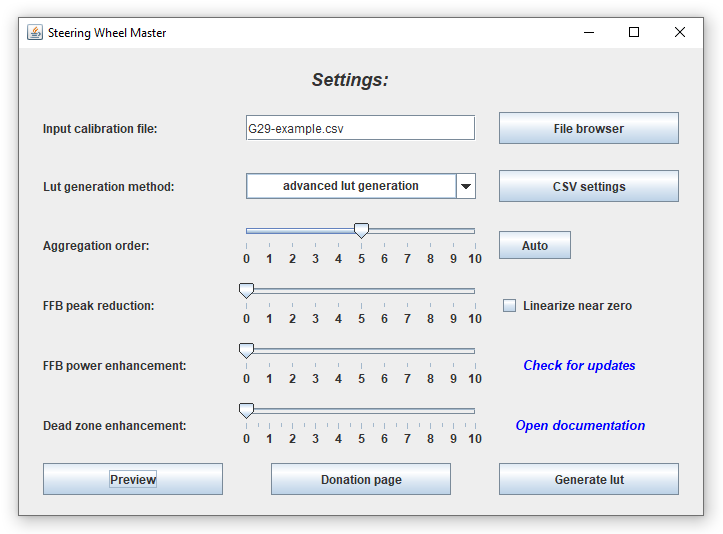
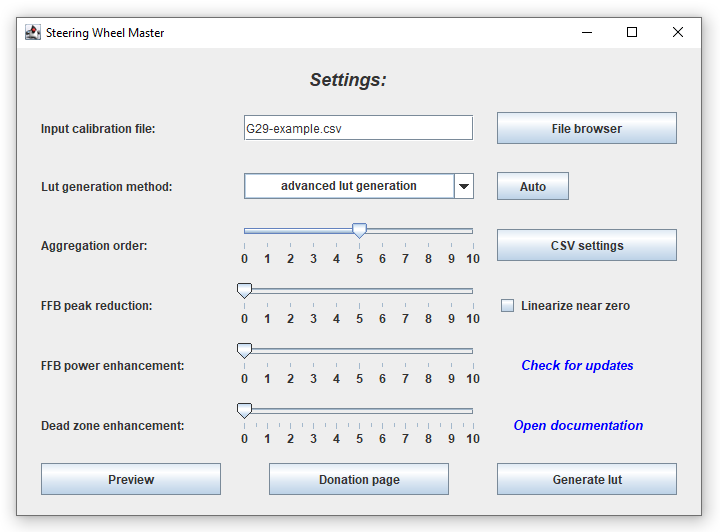
Improved 'Auto' feature and default settings. Java 8 is now required.

diff --git a/src/userInterface/Menu.java b/src/userInterface/Menu.java
@@ -45,7 +45,7 @@ public class Menu extends JPanel{
 	JTextField inputFileText;
 	JSlider aggregationSlider;
 	JSlider peakReductionSlider;
-	JSlider ffbPowerEnhacementSlider;
+	JSlider ffbPowerEnhancementSlider;
 	JSlider deadZoneEnhancementSlider;
 	JSONObject config;
 	JLabel documentationLink;
@@ -165,14 +165,14 @@ public class Menu extends JPanel{
 		
 		JLabel ffbPowerEnhacementLabel = new JLabel("FFB power enhancement:");
 		ffbPowerEnhacementLabel.setPreferredSize(sideComponentSize);
-		ffbPowerEnhacementSlider = new JSlider(0, 10, config.getInt(FFB_POWER_ENHANCEMENT));
-		ffbPowerEnhacementSlider.setPreferredSize(sliderSize);
-		ffbPowerEnhacementSlider.setMajorTickSpacing(5);
-		ffbPowerEnhacementSlider.setMinorTickSpacing(1);
-		ffbPowerEnhacementSlider.setPaintTicks(true);
-		ffbPowerEnhacementSlider.setPaintLabels(true);
-		ffbPowerEnhacementSlider.setPaintTrack(true);
-		ffbPowerEnhacementSlider.setLabelTable(position1);
+		ffbPowerEnhancementSlider = new JSlider(0, 10, config.getInt(FFB_POWER_ENHANCEMENT));
+		ffbPowerEnhancementSlider.setPreferredSize(sliderSize);
+		ffbPowerEnhancementSlider.setMajorTickSpacing(5);
+		ffbPowerEnhancementSlider.setMinorTickSpacing(1);
+		ffbPowerEnhancementSlider.setPaintTicks(true);
+		ffbPowerEnhancementSlider.setPaintLabels(true);
+		ffbPowerEnhancementSlider.setPaintTrack(true);
+		ffbPowerEnhancementSlider.setLabelTable(position1);
 		
 		JLabel deadZoneEnhancementLabel = new JLabel("Dead zone enhancement:");
 		deadZoneEnhancementLabel.setPreferredSize(sideComponentSize);
@@ -199,7 +199,7 @@ public class Menu extends JPanel{
 		aggregationSlider.setToolTipText(htmlBegin + AGGREGATION_ORDER_DESCRIPTION + htmlEnd);
 		autoButton.setToolTipText(htmlBegin + AUTO_DESCRIPTION + htmlEnd);
 		peakReductionSlider.setToolTipText(htmlBegin + PEAK_REDUCTION_DESCRIPTION + htmlEnd);
-		ffbPowerEnhacementSlider.setToolTipText(htmlBegin + POWER_ENHANCEMENT_DESCRIPTION + htmlEnd);
+		ffbPowerEnhancementSlider.setToolTipText(htmlBegin + POWER_ENHANCEMENT_DESCRIPTION + htmlEnd);
 		deadZoneEnhancementSlider.setToolTipText(htmlBegin + DZ_ENHANCEMENT_DESCRIPTION + htmlEnd);
 		linearizeNearZero.setToolTipText(htmlBegin + LINEARIZE_NEAR_ZERO_DESCRIPTION + htmlEnd);
 		lutGenerationMethod.setToolTipText(htmlBegin + LUT_METHOD_DESCRIPTION + htmlEnd);
@@ -247,7 +247,7 @@ public class Menu extends JPanel{
 		layoutPanel.add(lutGenerationMethod, constr);
 		constr.anchor = GridBagConstraints.WEST;
 		constr.gridx=2;
-		layoutPanel.add(inputCsvSettings, constr);
+		layoutPanel.add(autoButton, constr);
 		
 		
 		// AGGREGATON ORDER ROW
@@ -260,7 +260,7 @@ public class Menu extends JPanel{
 		layoutPanel.add(aggregationSlider, constr);
 		constr.anchor = GridBagConstraints.WEST;
 		constr.gridx=2;
-		layoutPanel.add(autoButton, constr);
+		layoutPanel.add(inputCsvSettings, constr);
 
 		// PEAK REDUCTION ROW
 		constr.gridy++;
@@ -281,7 +281,7 @@ public class Menu extends JPanel{
 		layoutPanel.add(ffbPowerEnhacementLabel, constr);
 		constr.gridx=1;
 		constr.anchor = GridBagConstraints.CENTER;
-		layoutPanel.add(ffbPowerEnhacementSlider, constr);
+		layoutPanel.add(ffbPowerEnhancementSlider, constr);
 		constr.anchor = GridBagConstraints.WEST;
 		constr.gridx=2;
 		layoutPanel.add(updatesLink, constr);
@@ -389,7 +389,7 @@ public class Menu extends JPanel{
 			}
 		});
 		
-		ffbPowerEnhacementSlider.addChangeListener(new ChangeListener() {
+		ffbPowerEnhancementSlider.addChangeListener(new ChangeListener() {
 			@Override
 			public void stateChanged(ChangeEvent arg0) {
 				updateComponentsStatus();
@@ -416,12 +416,12 @@ public class Menu extends JPanel{
 		
 		//compensation
 		if(peakReductionSlider.getValue()==0) {
-			ffbPowerEnhacementSlider.setEnabled(true);
+			ffbPowerEnhancementSlider.setEnabled(true);
 		} else {
-			ffbPowerEnhacementSlider.setEnabled(false);
+			ffbPowerEnhancementSlider.setEnabled(false);
 		}
 		
-		if(ffbPowerEnhacementSlider.getValue()==0) {
+		if(ffbPowerEnhancementSlider.getValue()==0) {
 			peakReductionSlider.setEnabled(true);
 		} else {
 			peakReductionSlider.setEnabled(false);
@@ -436,7 +436,7 @@ public class Menu extends JPanel{
 		config.put(LUT_GENERATION_METHOD, lutGenerationMethod.getSelectedItem());
 		config.put(PEAK_REDUCTION, peakReductionSlider.getValue());
 		config.put(LINEARIZE_NEAR_ZERO, linearizeNearZero.isSelected());
-		config.put(FFB_POWER_ENHANCEMENT, ffbPowerEnhacementSlider.getValue());
+		config.put(FFB_POWER_ENHANCEMENT, ffbPowerEnhancementSlider.getValue());
 		
 		try {
 			Files.write(Paths.get(JSON_CONFIG_PATH), config.toString().getBytes());
@@ -460,14 +460,23 @@ public class Menu extends JPanel{
 				exConf.setSaveLUT(true);
 				Manager.execute(exConf);
 			} else if(src == autoButton) {
-				exConf.setAutoCalcAggregationOder(true);
-				exConf = Manager.execute(exConf);
-				aggregationSlider.setValue(exConf.getAggregationOrder());
-				deadZoneEnhancementSlider.setValue((int)(exConf.getDeadZoneEnhancement()*2));
-				peakReductionSlider.setValue(exConf.getPeakReduction());
-				lutGenerationMethod.setSelectedItem(exConf.getLutGeneration_method());
-				linearizeNearZero.setSelected(exConf.isLinearizeNearZero());
-				ffbPowerEnhacementSlider.setValue(exConf.getFfbPowerEnhacement());
+				if(lutGenerationMethod.getSelectedItem().equals(ADVANCED_LUT_GENERATION)) {
+					exConf.setAutoCalcAggregationOder(true);
+					exConf = Manager.execute(exConf);
+					aggregationSlider.setValue(exConf.getAggregationOrder());
+					deadZoneEnhancementSlider.setValue((int) (exConf.getDeadZoneEnhancement() * 2));
+					peakReductionSlider.setValue(exConf.getPeakReduction());
+					lutGenerationMethod.setSelectedItem(exConf.getLutGeneration_method());
+					linearizeNearZero.setSelected(exConf.isLinearizeNearZero());
+					ffbPowerEnhancementSlider.setValue(exConf.getFfbPowerEnhacement());
+				} else {
+					//exConf.setPeakReduction(0);
+					peakReductionSlider.setValue(0);
+					//exConf.setFfbPowerEnhancement(0);
+					ffbPowerEnhancementSlider.setValue(0);
+					//exConf.setDeadZoneEnhancement(10);
+					deadZoneEnhancementSlider.setValue(10);
+				}
 				updateComponentsStatus();
 			} else if(src == inputCsvSettings){
 				transferJsonConfigIntoExConf(jsonConfig,exConf);

diff --git a/src/execution/Manager.java b/src/execution/Manager.java
@@ -30,7 +30,7 @@ public class Manager {
 			return process(exConf);
 		} catch (Exception e) {
 			e.printStackTrace();
-			JOptionPane.showMessageDialog(null, "Error during aggregation process.");
+			JOptionPane.showMessageDialog(null, "Unexpected error: check settings and input file.");
 			return exConf;
 		}
 

diff --git a/readme.md b/readme.md
@@ -38,7 +38,7 @@ The used settings are ***Step Log 2 (linear force test)*** with ***Max Count*** 
 
 ## How to use
 
-To run ***Steering Wheel Master***, download the [***latest version***](https://github.com/Luke460/steering-wheel-master/releases), unzip the file and run ***SteeringWheelMaster.jar*** (requires Java 7 or later):
+To run ***Steering Wheel Master***, download the [***latest version***](https://github.com/Luke460/steering-wheel-master/releases), unzip the file and run ***SteeringWheelMaster.jar*** (requires Java 8 or later):
 
 [![icon](images/Icon.png)](https://github.com/Luke460/steering-wheel-master/releases)
 
@@ -63,19 +63,19 @@ Since ***geared wheels*** tend to have clipping issues that can invalidate the *
 **NOTE:** 
  - Keep in mind that every steering wheel is different, you may need to find the perfect settings for your own device!
  - Some ***linear lut generation*** presets are available in the dedicated section below.
- - The in-game **FFB gain** must be set to 100% and the **minimum FFB** must be set to 0%.
+ - The in-game **FFB gain** must be set to 100% and the **minimum FFB** must be set to 0%. Make sure to also disable the centering force of your steering wheel if present.
  - If you are using a high level steering wheel, you probably will not get any benefit by using this application, as its behavior will already be linear, silent and without any dead zone.
 
  **IN GENERAL:** 
  - Lower values of ***aggregation order*** makes your force feedback correction more precise, while higher values makes your force feedback smoother.
    - Don't go too high, or you will lose precision in force feedback correction.
    - Don't go too low or you will not benefit of the aggregation procedure.
- - You can click on ***auto*** to (hopefully) calculate a good *aggregation order* for your steering wheel.
+ - You can click on ***auto*** to generate a series of valid settings for your steering wheel. It works for both linear and advanced lut generation.
  - You can click on ***CSV settings*** to configure how to read the input csv file.
- - You can increase ***FFB peak reduction*** if you have clipping issues with your steering wheel or simply you want to reduce the effects of very rough curbs, bumps, strong vibrations, etc. Enabling this option may also slightly reduce the overall noise of your steering wheel and extend its lifespan.
+ - You can increase ***FFB peak reduction*** if you have clipping issues with your steering wheel, or simply you want to reduce the effects of very rough curbs, bumps, strong vibrations, etc. Enabling this option may also slightly reduce the overall noise of your steering wheel and extend its lifespan.
  - You can use ***FFB power enhancement*** to boost your wheel FFB strength. It's mostly intended for steering wheel with low engine power. This option increases the low and medium values of FFB in a progressive manner.
  - You can increase ***dead zone enhancement*** if you have vibrations in the central area of the steering wheel.
- - You can decrease ***dead zone enhancement*** if you still have a FFB deadzone with the generated lut.
+ - You can decrease ***dead zone enhancement*** if you still have an FFB dead zone with the generated lut.
  - You can select ***linearize near zero*** to change the aggregation strategy for low values of the force feedback. It can help remove vibrations in the center of some steering wheels. Activating this option requires you to also increase the ***deadzone enhancement*** value.
  - Experiment and play with the ***preview*** button!
  
@@ -91,7 +91,7 @@ Now click on ***Generate lut*** and if everything goes well, you should get the 
 
 ## Linear lut generation presets
 
-The following settings can be applied to every steering wheel to generate a linear lut. The in-game **FFB gain** must be set to 100% and the **minimum FFB** must be set to 0%.
+The following settings can be applied to every steering wheel to generate a linear lut. The in-game **FFB gain** must be set to 100% and the **minimum FFB** must be set to 0%. Make sure to also disable the centering force of your steering wheel if present.
 
 ### Silent mode
 This preset is noticeably quieter, although the force feedback is slightly weaker. Since the peak power is lower, this option preserves the lifespan of the device.
@@ -101,7 +101,7 @@ This preset is noticeably quieter, although the force feedback is slightly weake
  - ***Dead zone enhancement***: 5 (this value depends on your wheel dead zone, but should be similar to this value)
  
 ### Standard mode
-This preset offers a good compromise between strength and quietness. Basically it only removes the dead zone leaving a default behavior.
+This is the standard preset and offers a good compromise between strength and quietness. Basically it only removes the dead zone leaving a default behavior.
  - ***Lut generation method***: linear lut generation
  - ***FFB Peak reduction***: 0
  - ***FFB power enhancement***: 0
@@ -184,3 +184,5 @@ For Assetto Corsa, if you are using ***Content Manager*** as game launcher, you 
 - [v2.13](https://github.com/Luke460/steering-wheel-master/releases): Improved input csv files compatibility.
 
 - [v3.0](https://github.com/Luke460/steering-wheel-master/releases): A new name: Steering Wheel Master!
+
+- [v3.1](https://github.com/Luke460/steering-wheel-master/releases): Improved 'Auto' feature and default settings. Java 8 is now required.
